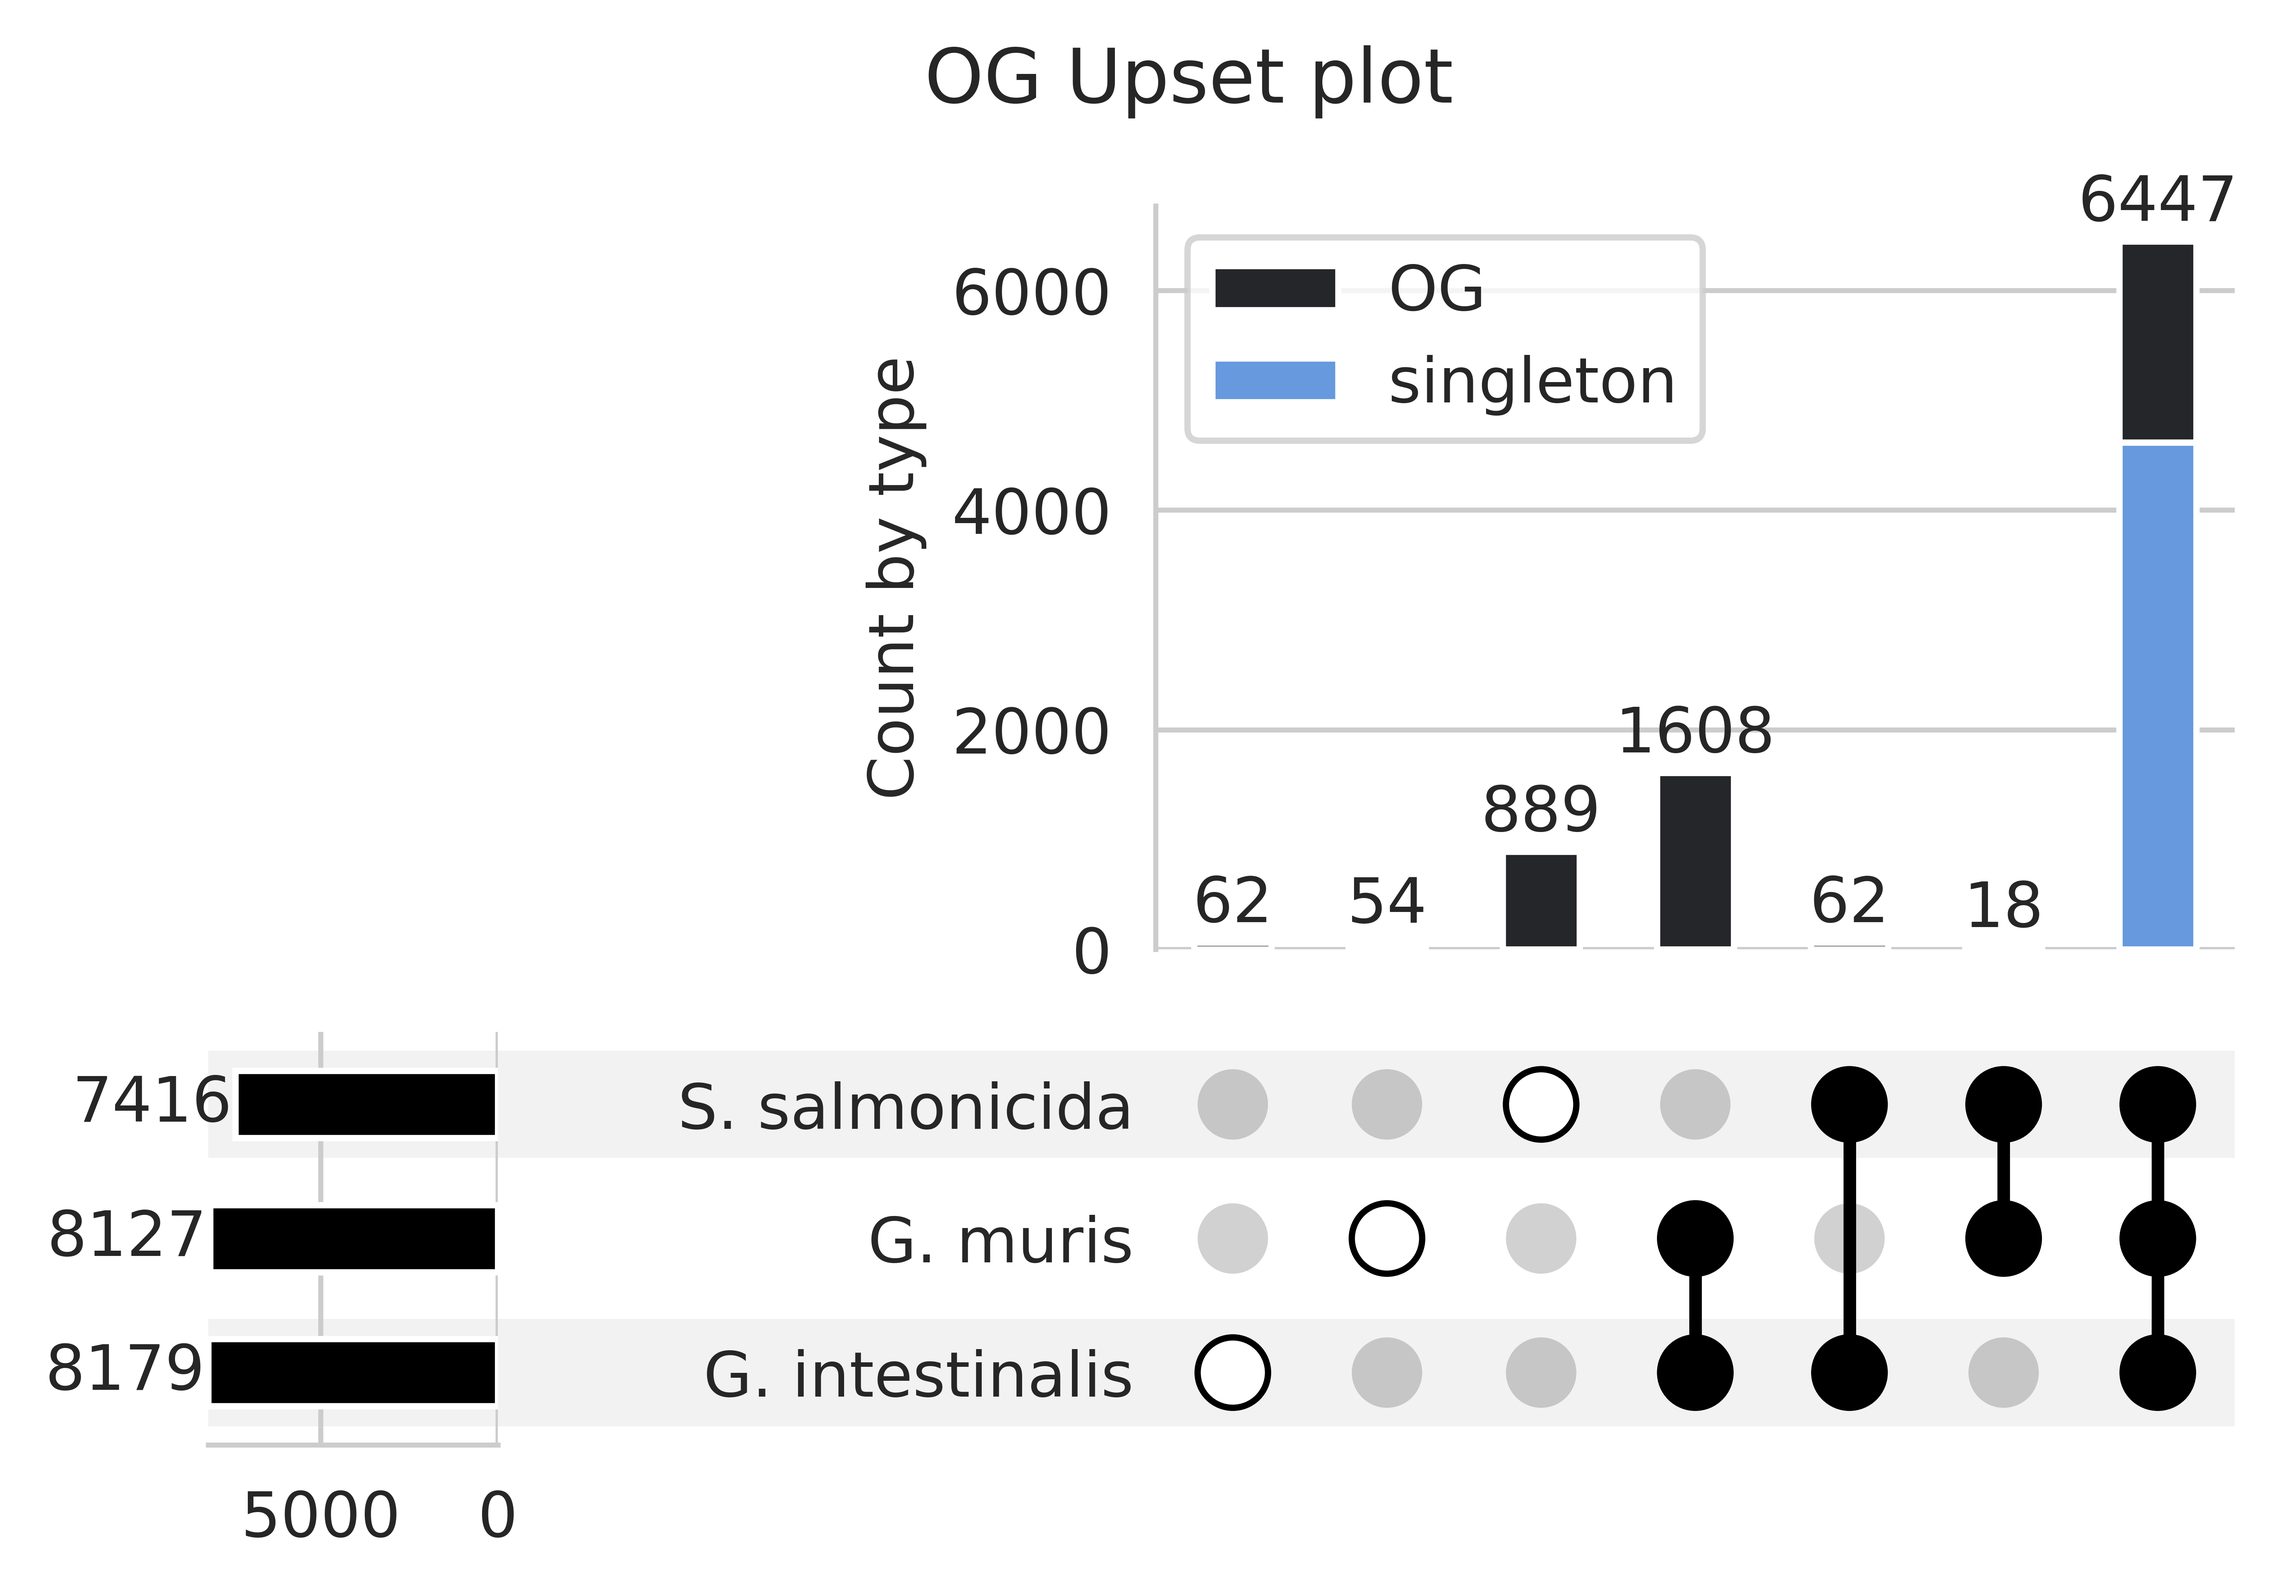
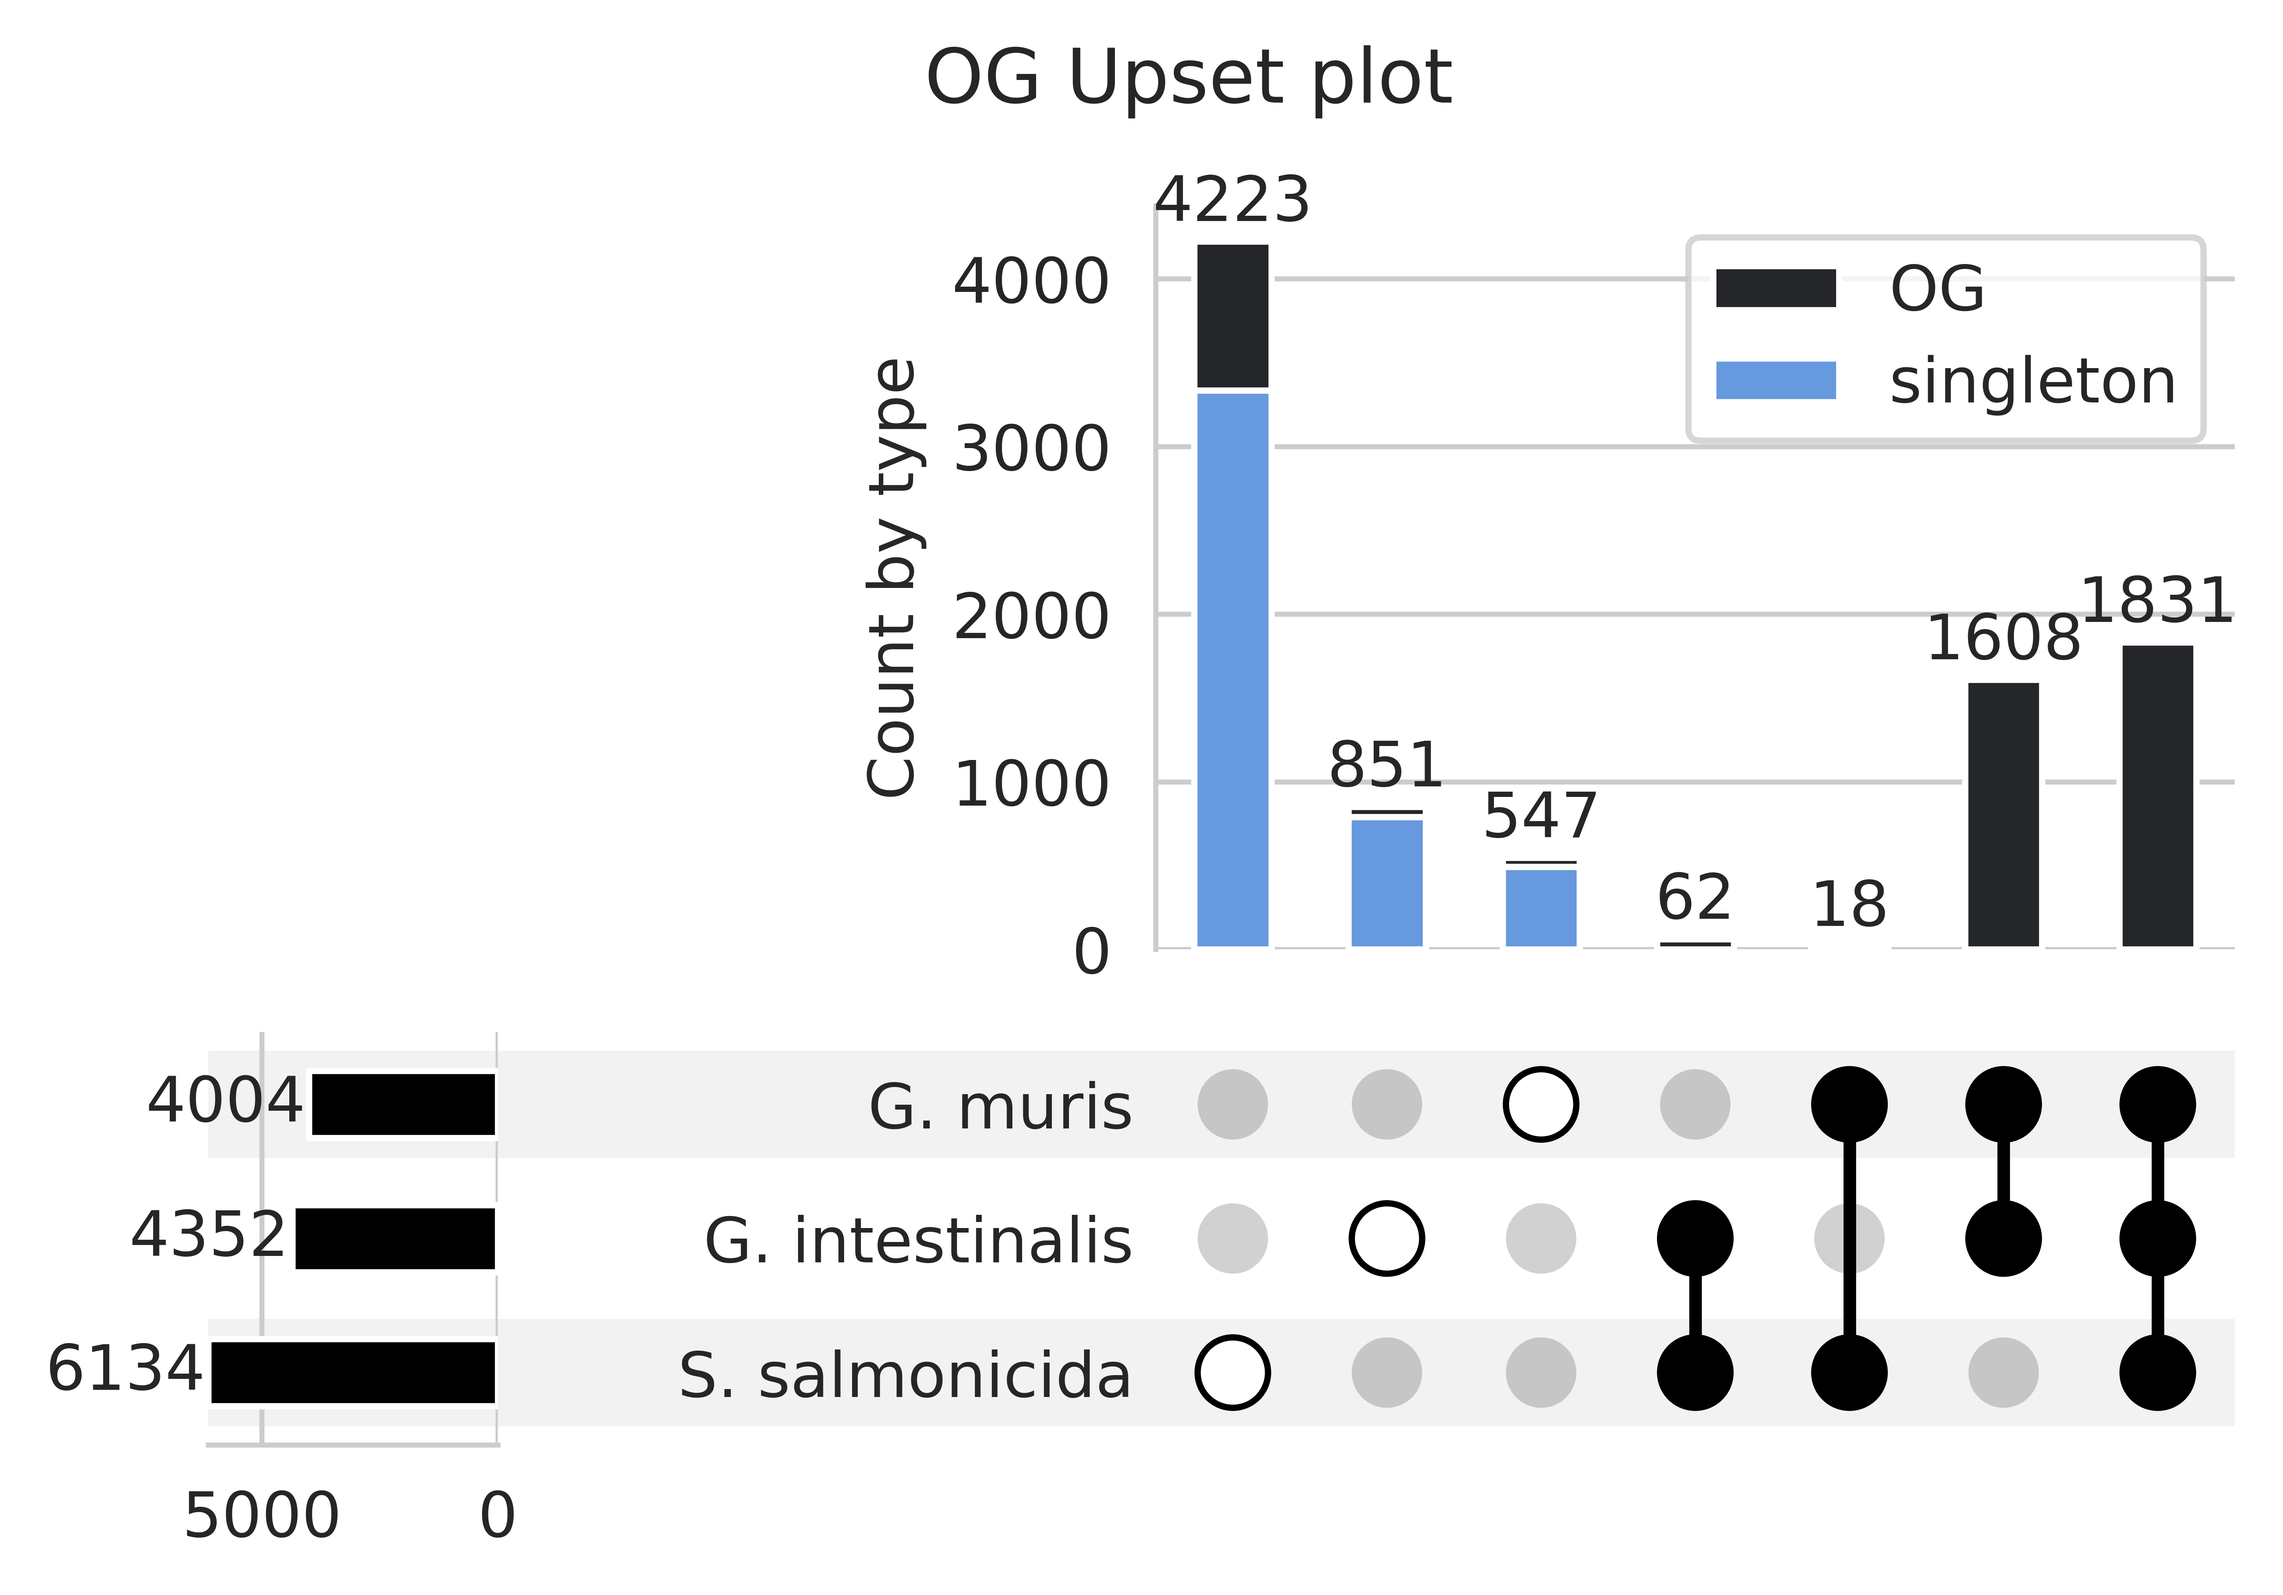
orthofinder results plotted.

diff --git a/scripts/upset_plot.py b/scripts/upset_plot.py
@@ -3,16 +3,16 @@ from matplotlib import pyplot as plt
 from upsetplot import UpSet
 import seaborn as sns
 
-path_OG_count = "output/orthofinder/Results_Jan18/Orthogroups/Orthogroups.GeneCount.tsv"
-path_singletone = "output/orthofinder/Results_Jan18/Orthogroups/Orthogroups_UnassignedGenes.tsv"
-out_0 = "data/upset_plot.png"
+path_OG_count = "../output/orthofinder/Results_Jan18/Orthogroups/Orthogroups.GeneCount.tsv"
+path_singletone = "../output/orthofinder/Results_Jan18/Orthogroups/Orthogroups_UnassignedGenes.tsv"
+out_0 = "../data/upset_plot.png"
 
 df_count = pd.read_csv(path_OG_count, sep = '\t', header = 'infer')
 df_count = df_count.set_index("Orthogroup").sort_values(by="Total", ascending=False)
 df_count.loc[df_count["Total"] > 1, "Type"] = "OG"
 
 df_sing = pd.read_csv(path_singletone, sep = '\t', header = 'infer')
-df_sing = df_sing.set_index("Orthogroup").fillna(8)
+df_sing = df_sing.set_index("Orthogroup").fillna(0)
 df_sing["Total"] = 1
 df_sing = df_sing.applymap(lambda x: 1 if isinstance(x, str) == True else x)
 
